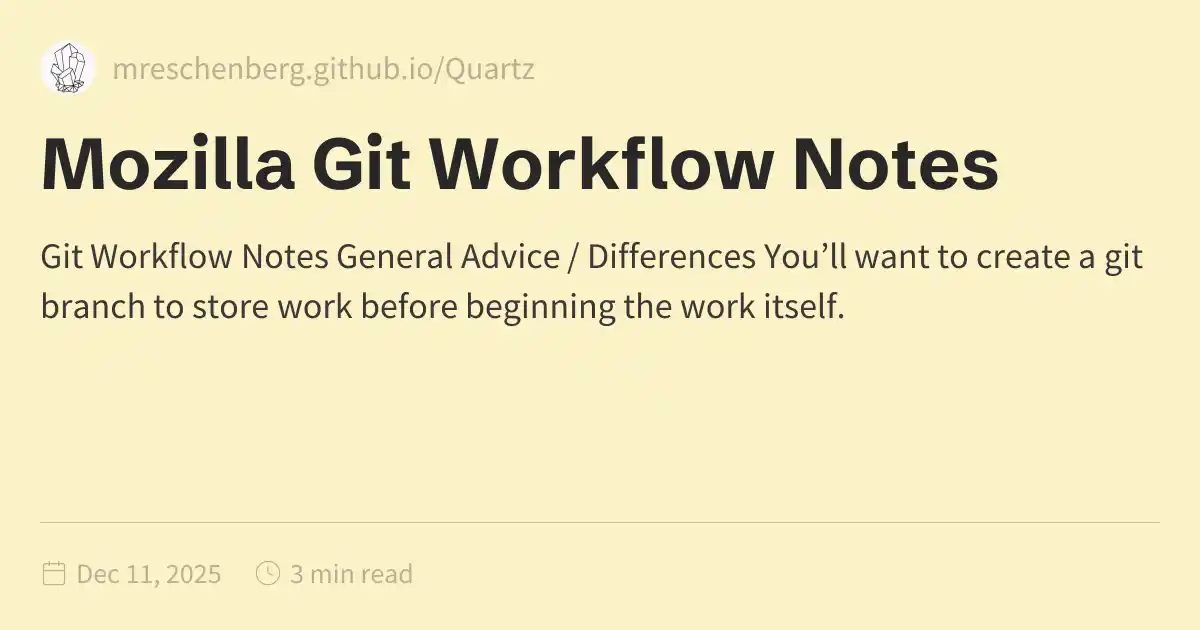
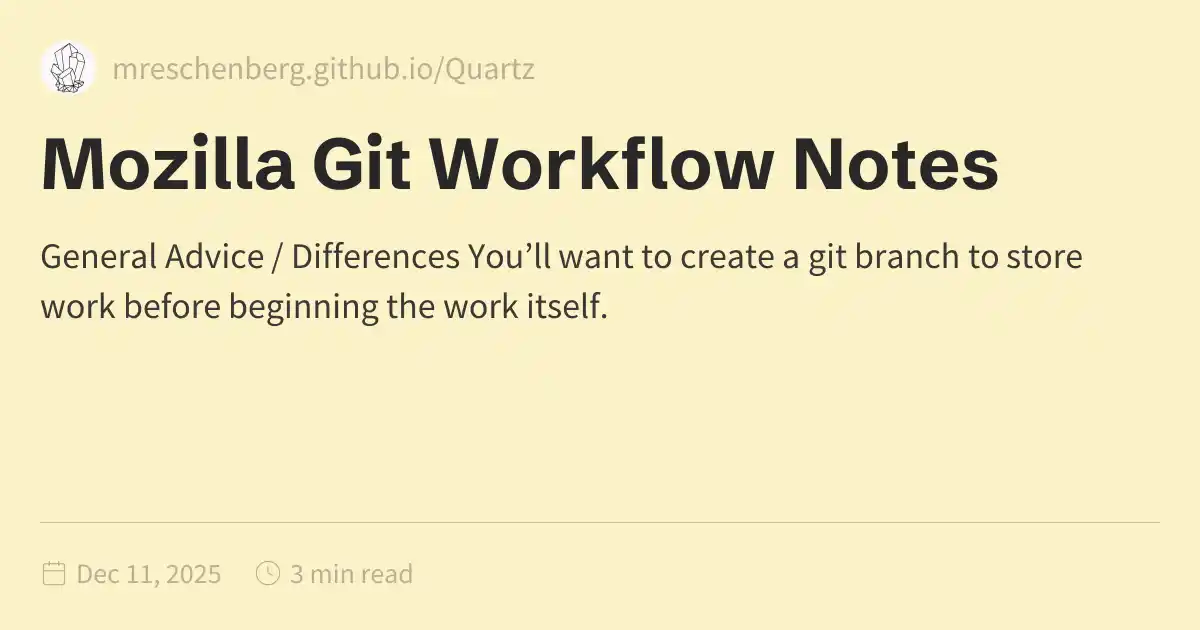
Quartz sync: Dec 11, 2025, 5:02 PM

Changed region(s): [[0.0308, 0.3619, 0.9558, 0.5127]]

diff --git a/docs/Work/Documentation/Mozilla-Git-Workflow-Notes.html b/docs/Work/Documentation/Mozilla-Git-Workflow-Notes.html
@@ -1,5 +1,5 @@
 <!DOCTYPE html>
-<html lang="en" dir="ltr"><head><title>Mozilla Git Workflow Notes</title><meta charset="utf-8"/><link rel="preconnect" href="https://fonts.googleapis.com"/><link rel="preconnect" href="https://fonts.gstatic.com"/><link rel="stylesheet" href="https://fonts.googleapis.com/css2?family=Schibsted Grotesk:wght@400;700&amp;family=Source Sans Pro:ital,wght@0,400;0,600;1,400;1,600&amp;family=IBM Plex Mono:wght@400;600&amp;display=swap"/><link rel="preconnect" href="https://cdnjs.cloudflare.com" crossorigin="anonymous"/><meta name="viewport" content="width=device-width, initial-scale=1.0"/><meta name="og:site_name" content="Morgan's Digital Garden 🪴"/><meta property="og:title" content="Mozilla Git Workflow Notes"/><meta property="og:type" content="website"/><meta name="twitter:card" content="summary_large_image"/><meta name="twitter:title" content="Mozilla Git Workflow Notes"/><meta name="twitter:description" content="Git Workflow Notes General Advice / Differences You’ll want to create a git branch to store work before beginning the work itself."/><meta property="og:description" content="Git Workflow Notes General Advice / Differences You’ll want to create a git branch to store work before beginning the work itself."/><meta property="og:image:alt" content="Git Workflow Notes General Advice / Differences You’ll want to create a git branch to store work before beginning the work itself."/><meta property="twitter:domain" content="mreschenberg.github.io/Quartz"/><meta property="og:url" content="https://mreschenberg.github.io/Quartz/Work/Documentation/Mozilla-Git-Workflow-Notes"/><meta property="twitter:url" content="https://mreschenberg.github.io/Quartz/Work/Documentation/Mozilla-Git-Workflow-Notes"/><link rel="icon" href="../../static/icon.png"/><meta name="description" content="Git Workflow Notes General Advice / Differences You’ll want to create a git branch to store work before beginning the work itself."/><meta name="generator" content="Quartz"/><link href="../../index.css" rel="stylesheet" type="text/css" data-persist="true"/><style>.expand-button {
+<html lang="en" dir="ltr"><head><title>Mozilla Git Workflow Notes</title><meta charset="utf-8"/><link rel="preconnect" href="https://fonts.googleapis.com"/><link rel="preconnect" href="https://fonts.gstatic.com"/><link rel="stylesheet" href="https://fonts.googleapis.com/css2?family=Schibsted Grotesk:wght@400;700&amp;family=Source Sans Pro:ital,wght@0,400;0,600;1,400;1,600&amp;family=IBM Plex Mono:wght@400;600&amp;display=swap"/><link rel="preconnect" href="https://cdnjs.cloudflare.com" crossorigin="anonymous"/><meta name="viewport" content="width=device-width, initial-scale=1.0"/><meta name="og:site_name" content="Morgan's Digital Garden 🪴"/><meta property="og:title" content="Mozilla Git Workflow Notes"/><meta property="og:type" content="website"/><meta name="twitter:card" content="summary_large_image"/><meta name="twitter:title" content="Mozilla Git Workflow Notes"/><meta name="twitter:description" content="General Advice / Differences You’ll want to create a git branch to store work before beginning the work itself."/><meta property="og:description" content="General Advice / Differences You’ll want to create a git branch to store work before beginning the work itself."/><meta property="og:image:alt" content="General Advice / Differences You’ll want to create a git branch to store work before beginning the work itself."/><meta property="twitter:domain" content="mreschenberg.github.io/Quartz"/><meta property="og:url" content="https://mreschenberg.github.io/Quartz/Work/Documentation/Mozilla-Git-Workflow-Notes"/><meta property="twitter:url" content="https://mreschenberg.github.io/Quartz/Work/Documentation/Mozilla-Git-Workflow-Notes"/><link rel="icon" href="../../static/icon.png"/><meta name="description" content="General Advice / Differences You’ll want to create a git branch to store work before beginning the work itself."/><meta name="generator" content="Quartz"/><link href="../../index.css" rel="stylesheet" type="text/css" data-persist="true"/><style>.expand-button {
   position: absolute;
   display: flex;
   float: right;
@@ -115,8 +115,7 @@ pre:hover > .expand-button {
   padding: 0 12px;
   font-size: 14px;
 }
[1 lines of base64/hex data omitted]
-<h2 id="general-advice--differences">General Advice / Differences<a role="anchor" aria-hidden="true" tabindex="-1" data-no-popover="true" href="#general-advice--differences" class="internal"><svg width="18" height="18" viewBox="0 0 24 24" fill="none" stroke="currentColor" stroke-width="2" stroke-linecap="round" stroke-linejoin="round"><path d="M10 13a5 5 0 0 0 7.54.54l3-3a5 5 0 0 0-7.07-7.07l-1.72 1.71"></path><path d="M14 11a5 5 0 0 0-7.54-.54l-3 3a5 5 0 0 0 7.07 7.07l1.71-1.71"></path></svg></a></h2>
[1 lines of base64/hex data omitted]
 <ul>
 <li>You’ll want to create a git branch to store work before beginning the work itself. This can be done with <code>git checkout -b YOUR_BRANCH_NAME</code>. You can view branches with <code>git branch -v</code> and switch between them with <code>git checkout BRANCH_NAME</code>. Git’s <code>main</code> branch points to the tip of mozilla-central from the last time you pulled.</li>
 <li>Git requires you stage commands to tracked files before they are included in your current commit. Mercurial only requires this for additions and deletions.
@@ -219,6 +218,6 @@ exit 0
                 C46.042,11.405,47.451,12,49,12c3.309,0,6-2.691,6-6S52.309,0,49,0z M11,9c0-1.103,0.897-2,2-2s2,0.897,2,2s-0.897,2-2,2
                 S11,10.103,11,9z M6,51c-2.206,0-4-1.794-4-4s1.794-4,4-4s4,1.794,4,4S8.206,51,6,51z M33,49c0,2.206-1.794,4-4,4s-4-1.794-4-4
                 s1.794-4,4-4S33,46.794,33,49z M29,31c-3.309,0-6-2.691-6-6s2.691-6,6-6s6,2.691,6,6S32.309,31,29,31z M47,41c0,1.103-0.897,2-2,2
-                s-2-0.897-2-2s0.897-2,2-2S47,39.897,47,41z M49,10c-2.206,0-4-1.794-4-4s1.794-4,4-4s4,1.794,4,4S51.206,10,49,10z"></path></svg></button></div><div class="global-graph-outer"><div class="global-graph-container" data-cfg="{&quot;drag&quot;:true,&quot;zoom&quot;:true,&quot;depth&quot;:-1,&quot;scale&quot;:0.9,&quot;repelForce&quot;:0.5,&quot;centerForce&quot;:0.2,&quot;linkDistance&quot;:30,&quot;fontSize&quot;:0.6,&quot;opacityScale&quot;:1,&quot;showTags&quot;:true,&quot;removeTags&quot;:[],&quot;focusOnHover&quot;:true,&quot;enableRadial&quot;:true}"></div></div></div><div class="toc desktop-only"><button type="button" class="toc-header" aria-controls="toc-6" aria-expanded="true"><h3>Table of Contents</h3><svg xmlns="http://www.w3.org/2000/svg" width="24" height="24" viewBox="0 0 24 24" fill="none" stroke="currentColor" stroke-width="2" stroke-linecap="round" stroke-linejoin="round" class="fold"><polyline points="6 9 12 15 18 9"></polyline></svg></button><ul id="list-1" class="toc-content overflow"><li class="depth-0"><a href="#git-workflow-notes" data-for="git-workflow-notes">Git Workflow Notes</a></li><li class="depth-1"><a href="#general-advice--differences" data-for="general-advice--differences">General Advice / Differences</a></li><li class="depth-1"><a href="#command-conversions" data-for="command-conversions">Command Conversions</a></li><li class="depth-1"><a href="#commit-hooks" data-for="commit-hooks">Commit Hooks</a></li><li class="depth-2"><a href="#lint-files-before-committing" data-for="lint-files-before-committing">Lint files before committing</a></li><li class="overflow-end"></li></ul></div><div class="backlinks"><h3>Backlinks</h3><ul id="list-2" class="overflow"><li><a href="../../Infrastructure/Morgan's-Obsidian-Guide" class="internal">Morgan's Obsidian Guide</a></li><li class="overflow-end"></li></ul></div></div><footer class><p>Created with <a href="https://quartz.jzhao.xyz/">Quartz v4.5.2</a> © 2025</p><ul><li><a href="https://github.com/jackyzha0/quartz">GitHub</a></li><li><a href="https://discord.gg/cRFFHYye7t">Discord Community</a></li></ul></footer></div></div></body><script type="application/javascript" data-persist="true">function n(){let t=this.parentElement;t.classList.toggle("is-collapsed");let e=t.getElementsByClassName("callout-content")[0];if(!e)return;let l=t.classList.contains("is-collapsed");e.style.gridTemplateRows=l?"0fr":"1fr"}function c(){let t=document.getElementsByClassName("callout is-collapsible");for(let e of t){let l=e.getElementsByClassName("callout-title")[0],s=e.getElementsByClassName("callout-content")[0];if(!l||!s)continue;l.addEventListener("click",n),window.addCleanup(()=>l.removeEventListener("click",n));let o=e.classList.contains("is-collapsed");s.style.gridTemplateRows=o?"0fr":"1fr"}}document.addEventListener("nav",c);
+                s-2-0.897-2-2s0.897-2,2-2S47,39.897,47,41z M49,10c-2.206,0-4-1.794-4-4s1.794-4,4-4s4,1.794,4,4S51.206,10,49,10z"></path></svg></button></div><div class="global-graph-outer"><div class="global-graph-container" data-cfg="{&quot;drag&quot;:true,&quot;zoom&quot;:true,&quot;depth&quot;:-1,&quot;scale&quot;:0.9,&quot;repelForce&quot;:0.5,&quot;centerForce&quot;:0.2,&quot;linkDistance&quot;:30,&quot;fontSize&quot;:0.6,&quot;opacityScale&quot;:1,&quot;showTags&quot;:true,&quot;removeTags&quot;:[],&quot;focusOnHover&quot;:true,&quot;enableRadial&quot;:true}"></div></div></div><div class="toc desktop-only"><button type="button" class="toc-header" aria-controls="toc-6" aria-expanded="true"><h3>Table of Contents</h3><svg xmlns="http://www.w3.org/2000/svg" width="24" height="24" viewBox="0 0 24 24" fill="none" stroke="currentColor" stroke-width="2" stroke-linecap="round" stroke-linejoin="round" class="fold"><polyline points="6 9 12 15 18 9"></polyline></svg></button><ul id="list-1" class="toc-content overflow"><li class="depth-0"><a href="#general-advice--differences" data-for="general-advice--differences">General Advice / Differences</a></li><li class="depth-0"><a href="#command-conversions" data-for="command-conversions">Command Conversions</a></li><li class="depth-0"><a href="#commit-hooks" data-for="commit-hooks">Commit Hooks</a></li><li class="depth-1"><a href="#lint-files-before-committing" data-for="lint-files-before-committing">Lint files before committing</a></li><li class="overflow-end"></li></ul></div><div class="backlinks"><h3>Backlinks</h3><ul id="list-2" class="overflow"><li><a href="../../Infrastructure/Morgan's-Obsidian-Guide" class="internal">Morgan's Obsidian Guide</a></li><li class="overflow-end"></li></ul></div></div><footer class><p>Created with <a href="https://quartz.jzhao.xyz/">Quartz v4.5.2</a> © 2025</p><ul><li><a href="https://github.com/jackyzha0/quartz">GitHub</a></li><li><a href="https://discord.gg/cRFFHYye7t">Discord Community</a></li></ul></footer></div></div></body><script type="application/javascript" data-persist="true">function n(){let t=this.parentElement;t.classList.toggle("is-collapsed");let e=t.getElementsByClassName("callout-content")[0];if(!e)return;let l=t.classList.contains("is-collapsed");e.style.gridTemplateRows=l?"0fr":"1fr"}function c(){let t=document.getElementsByClassName("callout is-collapsible");for(let e of t){let l=e.getElementsByClassName("callout-title")[0],s=e.getElementsByClassName("callout-content")[0];if(!l||!s)continue;l.addEventListener("click",n),window.addCleanup(()=>l.removeEventListener("click",n));let o=e.classList.contains("is-collapsed");s.style.gridTemplateRows=o?"0fr":"1fr"}}document.addEventListener("nav",c);
 </script><script type="module" data-persist="true">function E(a,e){if(!a)return;function t(o){o.target===this&&(o.preventDefault(),o.stopPropagation(),e())}function n(o){o.key.startsWith("Esc")&&(o.preventDefault(),e())}a?.addEventListener("click",t),window.addCleanup(()=>a?.removeEventListener("click",t)),document.addEventListener("keydown",n),window.addCleanup(()=>document.removeEventListener("keydown",n))}function f(a){for(;a.firstChild;)a.removeChild(a.firstChild)}var m=class{constructor(e,t){this.container=e;this.content=t;this.setupEventListeners(),this.setupNavigationControls(),this.resetTransform()}isDragging=!1;startPan={x:0,y:0};currentPan={x:0,y:0};scale=1;MIN_SCALE=.5;MAX_SCALE=3;cleanups=[];setupEventListeners(){let e=this.onMouseDown.bind(this),t=this.onMouseMove.bind(this),n=this.onMouseUp.bind(this),o=this.onTouchStart.bind(this),r=this.onTouchMove.bind(this),i=this.onTouchEnd.bind(this),s=this.resetTransform.bind(this);this.container.addEventListener("mousedown",e),document.addEventListener("mousemove",t),document.addEventListener("mouseup",n),this.container.addEventListener("touchstart",o,{passive:!1}),document.addEventListener("touchmove",r,{passive:!1}),document.addEventListener("touchend",i),window.addEventListener("resize",s),this.cleanups.push(()=>this.container.removeEventListener("mousedown",e),()=>document.removeEventListener("mousemove",t),()=>document.removeEventListener("mouseup",n),()=>this.container.removeEventListener("touchstart",o),()=>document.removeEventListener("touchmove",r),()=>document.removeEventListener("touchend",i),()=>window.removeEventListener("resize",s))}cleanup(){for(let e of this.cleanups)e()}setupNavigationControls(){let e=document.createElement("div");e.className="mermaid-controls";let t=this.createButton("+",()=>this.zoom(.1)),n=this.createButton("-",()=>this.zoom(-.1)),o=this.createButton("Reset",()=>this.resetTransform());e.appendChild(n),e.appendChild(o),e.appendChild(t),this.container.appendChild(e)}createButton(e,t){let n=document.createElement("button");return n.textContent=e,n.className="mermaid-control-button",n.addEventListener("click",t),window.addCleanup(()=>n.removeEventListener("click",t)),n}onMouseDown(e){e.button===0&&(this.isDragging=!0,this.startPan={x:e.clientX-this.currentPan.x,y:e.clientY-this.currentPan.y},this.container.style.cursor="grabbing")}onMouseMove(e){this.isDragging&&(e.preventDefault(),this.currentPan={x:e.clientX-this.startPan.x,y:e.clientY-this.startPan.y},this.updateTransform())}onMouseUp(){this.isDragging=!1,this.container.style.cursor="grab"}onTouchStart(e){if(e.touches.length!==1)return;this.isDragging=!0;let t=e.touches[0];this.startPan={x:t.clientX-this.currentPan.x,y:t.clientY-this.currentPan.y}}onTouchMove(e){if(!this.isDragging||e.touches.length!==1)return;e.preventDefault();let t=e.touches[0];this.currentPan={x:t.clientX-this.startPan.x,y:t.clientY-this.startPan.y},this.updateTransform()}onTouchEnd(){this.isDragging=!1}zoom(e){let t=Math.min(Math.max(this.scale+e,this.MIN_SCALE),this.MAX_SCALE),n=this.content.getBoundingClientRect(),o=n.width/2,r=n.height/2,i=t-this.scale;this.currentPan.x-=o*i,this.currentPan.y-=r*i,this.scale=t,this.updateTransform()}updateTransform(){this.content.style.transform=`translate(${this.currentPan.x}px, ${this.currentPan.y}px) scale(${this.scale})`}resetTransform(){let t=this.content.querySelector("svg").getBoundingClientRect(),n=t.width/this.scale,o=t.height/this.scale;this.scale=1,this.currentPan={x:(this.container.clientWidth-n)/2,y:(this.container.clientHeight-o)/2},this.updateTransform()}},T=["--secondary","--tertiary","--gray","--light","--lightgray","--highlight","--dark","--darkgray","--codeFont"],y;document.addEventListener("nav",async()=>{let e=document.querySelector(".center").querySelectorAll("code.mermaid");if(e.length===0)return;y||=await import("https://cdnjs.cloudflare.com/ajax/libs/mermaid/11.4.0/mermaid.esm.min.mjs");let t=y.default,n=new WeakMap;for(let r of e)n.set(r,r.innerText);async function o(){for(let s of e){s.removeAttribute("data-processed");let c=n.get(s);c&&(s.innerHTML=c)}let r=T.reduce((s,c)=>(s[c]=window.getComputedStyle(document.documentElement).getPropertyValue(c),s),{}),i=document.documentElement.getAttribute("saved-theme")==="dark";t.initialize({startOnLoad:!1,securityLevel:"loose",theme:i?"dark":"base",themeVariables:{fontFamily:r["--codeFont"],primaryColor:r["--light"],primaryTextColor:r["--darkgray"],primaryBorderColor:r["--tertiary"],lineColor:r["--darkgray"],secondaryColor:r["--secondary"],tertiaryColor:r["--tertiary"],clusterBkg:r["--light"],edgeLabelBackground:r["--highlight"]}}),await t.run({nodes:e})}await o(),document.addEventListener("themechange",o),window.addCleanup(()=>document.removeEventListener("themechange",o));for(let r=0;r<e.length;r++){let v=function(){let g=l.querySelector("#mermaid-space"),h=l.querySelector(".mermaid-content");if(!h)return;f(h);let w=i.querySelector("svg").cloneNode(!0);h.appendChild(w),l.classList.add("active"),g.style.cursor="grab",u=new m(g,h)},M=function(){l.classList.remove("active"),u?.cleanup(),u=null},i=e[r],s=i.parentElement,c=s.querySelector(".clipboard-button"),d=s.querySelector(".expand-button"),p=window.getComputedStyle(c),L=c.offsetWidth+parseFloat(p.marginLeft||"0")+parseFloat(p.marginRight||"0");d.style.right=`calc(${L}px + 0.3rem)`,s.prepend(d);let l=s.querySelector("#mermaid-container");if(!l)return;let u=null;d.addEventListener("click",v),E(l,M),window.addCleanup(()=>{u?.cleanup(),d.removeEventListener("click",v)})}});
 </script><script src="https://cdn.jsdelivr.net/npm/katex@0.16.11/dist/contrib/copy-tex.min.js" type="application/javascript" data-persist="true"></script><script src="../../postscript.js" type="module" data-persist="true"></script></html>

diff --git a/docs/Work/Documentation/index.html b/docs/Work/Documentation/index.html
@@ -115,6 +115,6 @@ pre:hover > .expand-button {
   padding: 0 12px;
   font-size: 14px;
 }
[2 lines of base64/hex data omitted]
 </script><script type="module" data-persist="true">function E(a,e){if(!a)return;function t(o){o.target===this&&(o.preventDefault(),o.stopPropagation(),e())}function n(o){o.key.startsWith("Esc")&&(o.preventDefault(),e())}a?.addEventListener("click",t),window.addCleanup(()=>a?.removeEventListener("click",t)),document.addEventListener("keydown",n),window.addCleanup(()=>document.removeEventListener("keydown",n))}function f(a){for(;a.firstChild;)a.removeChild(a.firstChild)}var m=class{constructor(e,t){this.container=e;this.content=t;this.setupEventListeners(),this.setupNavigationControls(),this.resetTransform()}isDragging=!1;startPan={x:0,y:0};currentPan={x:0,y:0};scale=1;MIN_SCALE=.5;MAX_SCALE=3;cleanups=[];setupEventListeners(){let e=this.onMouseDown.bind(this),t=this.onMouseMove.bind(this),n=this.onMouseUp.bind(this),o=this.onTouchStart.bind(this),r=this.onTouchMove.bind(this),i=this.onTouchEnd.bind(this),s=this.resetTransform.bind(this);this.container.addEventListener("mousedown",e),document.addEventListener("mousemove",t),document.addEventListener("mouseup",n),this.container.addEventListener("touchstart",o,{passive:!1}),document.addEventListener("touchmove",r,{passive:!1}),document.addEventListener("touchend",i),window.addEventListener("resize",s),this.cleanups.push(()=>this.container.removeEventListener("mousedown",e),()=>document.removeEventListener("mousemove",t),()=>document.removeEventListener("mouseup",n),()=>this.container.removeEventListener("touchstart",o),()=>document.removeEventListener("touchmove",r),()=>document.removeEventListener("touchend",i),()=>window.removeEventListener("resize",s))}cleanup(){for(let e of this.cleanups)e()}setupNavigationControls(){let e=document.createElement("div");e.className="mermaid-controls";let t=this.createButton("+",()=>this.zoom(.1)),n=this.createButton("-",()=>this.zoom(-.1)),o=this.createButton("Reset",()=>this.resetTransform());e.appendChild(n),e.appendChild(o),e.appendChild(t),this.container.appendChild(e)}createButton(e,t){let n=document.createElement("button");return n.textContent=e,n.className="mermaid-control-button",n.addEventListener("click",t),window.addCleanup(()=>n.removeEventListener("click",t)),n}onMouseDown(e){e.button===0&&(this.isDragging=!0,this.startPan={x:e.clientX-this.currentPan.x,y:e.clientY-this.currentPan.y},this.container.style.cursor="grabbing")}onMouseMove(e){this.isDragging&&(e.preventDefault(),this.currentPan={x:e.clientX-this.startPan.x,y:e.clientY-this.startPan.y},this.updateTransform())}onMouseUp(){this.isDragging=!1,this.container.style.cursor="grab"}onTouchStart(e){if(e.touches.length!==1)return;this.isDragging=!0;let t=e.touches[0];this.startPan={x:t.clientX-this.currentPan.x,y:t.clientY-this.currentPan.y}}onTouchMove(e){if(!this.isDragging||e.touches.length!==1)return;e.preventDefault();let t=e.touches[0];this.currentPan={x:t.clientX-this.startPan.x,y:t.clientY-this.startPan.y},this.updateTransform()}onTouchEnd(){this.isDragging=!1}zoom(e){let t=Math.min(Math.max(this.scale+e,this.MIN_SCALE),this.MAX_SCALE),n=this.content.getBoundingClientRect(),o=n.width/2,r=n.height/2,i=t-this.scale;this.currentPan.x-=o*i,this.currentPan.y-=r*i,this.scale=t,this.updateTransform()}updateTransform(){this.content.style.transform=`translate(${this.currentPan.x}px, ${this.currentPan.y}px) scale(${this.scale})`}resetTransform(){let t=this.content.querySelector("svg").getBoundingClientRect(),n=t.width/this.scale,o=t.height/this.scale;this.scale=1,this.currentPan={x:(this.container.clientWidth-n)/2,y:(this.container.clientHeight-o)/2},this.updateTransform()}},T=["--secondary","--tertiary","--gray","--light","--lightgray","--highlight","--dark","--darkgray","--codeFont"],y;document.addEventListener("nav",async()=>{let e=document.querySelector(".center").querySelectorAll("code.mermaid");if(e.length===0)return;y||=await import("https://cdnjs.cloudflare.com/ajax/libs/mermaid/11.4.0/mermaid.esm.min.mjs");let t=y.default,n=new WeakMap;for(let r of e)n.set(r,r.innerText);async function o(){for(let s of e){s.removeAttribute("data-processed");let c=n.get(s);c&&(s.innerHTML=c)}let r=T.reduce((s,c)=>(s[c]=window.getComputedStyle(document.documentElement).getPropertyValue(c),s),{}),i=document.documentElement.getAttribute("saved-theme")==="dark";t.initialize({startOnLoad:!1,securityLevel:"loose",theme:i?"dark":"base",themeVariables:{fontFamily:r["--codeFont"],primaryColor:r["--light"],primaryTextColor:r["--darkgray"],primaryBorderColor:r["--tertiary"],lineColor:r["--darkgray"],secondaryColor:r["--secondary"],tertiaryColor:r["--tertiary"],clusterBkg:r["--light"],edgeLabelBackground:r["--highlight"]}}),await t.run({nodes:e})}await o(),document.addEventListener("themechange",o),window.addCleanup(()=>document.removeEventListener("themechange",o));for(let r=0;r<e.length;r++){let v=function(){let g=l.querySelector("#mermaid-space"),h=l.querySelector(".mermaid-content");if(!h)return;f(h);let w=i.querySelector("svg").cloneNode(!0);h.appendChild(w),l.classList.add("active"),g.style.cursor="grab",u=new m(g,h)},M=function(){l.classList.remove("active"),u?.cleanup(),u=null},i=e[r],s=i.parentElement,c=s.querySelector(".clipboard-button"),d=s.querySelector(".expand-button"),p=window.getComputedStyle(c),L=c.offsetWidth+parseFloat(p.marginLeft||"0")+parseFloat(p.marginRight||"0");d.style.right=`calc(${L}px + 0.3rem)`,s.prepend(d);let l=s.querySelector("#mermaid-container");if(!l)return;let u=null;d.addEventListener("click",v),E(l,M),window.addCleanup(()=>{u?.cleanup(),d.removeEventListener("click",v)})}});
 </script><script src="https://cdn.jsdelivr.net/npm/katex@0.16.11/dist/contrib/copy-tex.min.js" type="application/javascript" data-persist="true"></script><script src="../../postscript.js" type="module" data-persist="true"></script></html>

diff --git a/docs/Work/index.html b/docs/Work/index.html
@@ -115,6 +115,6 @@ pre:hover > .expand-button {
   padding: 0 12px;
   font-size: 14px;
 }
[2 lines of base64/hex data omitted]
 </script><script type="module" data-persist="true">function E(a,e){if(!a)return;function t(o){o.target===this&&(o.preventDefault(),o.stopPropagation(),e())}function n(o){o.key.startsWith("Esc")&&(o.preventDefault(),e())}a?.addEventListener("click",t),window.addCleanup(()=>a?.removeEventListener("click",t)),document.addEventListener("keydown",n),window.addCleanup(()=>document.removeEventListener("keydown",n))}function f(a){for(;a.firstChild;)a.removeChild(a.firstChild)}var m=class{constructor(e,t){this.container=e;this.content=t;this.setupEventListeners(),this.setupNavigationControls(),this.resetTransform()}isDragging=!1;startPan={x:0,y:0};currentPan={x:0,y:0};scale=1;MIN_SCALE=.5;MAX_SCALE=3;cleanups=[];setupEventListeners(){let e=this.onMouseDown.bind(this),t=this.onMouseMove.bind(this),n=this.onMouseUp.bind(this),o=this.onTouchStart.bind(this),r=this.onTouchMove.bind(this),i=this.onTouchEnd.bind(this),s=this.resetTransform.bind(this);this.container.addEventListener("mousedown",e),document.addEventListener("mousemove",t),document.addEventListener("mouseup",n),this.container.addEventListener("touchstart",o,{passive:!1}),document.addEventListener("touchmove",r,{passive:!1}),document.addEventListener("touchend",i),window.addEventListener("resize",s),this.cleanups.push(()=>this.container.removeEventListener("mousedown",e),()=>document.removeEventListener("mousemove",t),()=>document.removeEventListener("mouseup",n),()=>this.container.removeEventListener("touchstart",o),()=>document.removeEventListener("touchmove",r),()=>document.removeEventListener("touchend",i),()=>window.removeEventListener("resize",s))}cleanup(){for(let e of this.cleanups)e()}setupNavigationControls(){let e=document.createElement("div");e.className="mermaid-controls";let t=this.createButton("+",()=>this.zoom(.1)),n=this.createButton("-",()=>this.zoom(-.1)),o=this.createButton("Reset",()=>this.resetTransform());e.appendChild(n),e.appendChild(o),e.appendChild(t),this.container.appendChild(e)}createButton(e,t){let n=document.createElement("button");return n.textContent=e,n.className="mermaid-control-button",n.addEventListener("click",t),window.addCleanup(()=>n.removeEventListener("click",t)),n}onMouseDown(e){e.button===0&&(this.isDragging=!0,this.startPan={x:e.clientX-this.currentPan.x,y:e.clientY-this.currentPan.y},this.container.style.cursor="grabbing")}onMouseMove(e){this.isDragging&&(e.preventDefault(),this.currentPan={x:e.clientX-this.startPan.x,y:e.clientY-this.startPan.y},this.updateTransform())}onMouseUp(){this.isDragging=!1,this.container.style.cursor="grab"}onTouchStart(e){if(e.touches.length!==1)return;this.isDragging=!0;let t=e.touches[0];this.startPan={x:t.clientX-this.currentPan.x,y:t.clientY-this.currentPan.y}}onTouchMove(e){if(!this.isDragging||e.touches.length!==1)return;e.preventDefault();let t=e.touches[0];this.currentPan={x:t.clientX-this.startPan.x,y:t.clientY-this.startPan.y},this.updateTransform()}onTouchEnd(){this.isDragging=!1}zoom(e){let t=Math.min(Math.max(this.scale+e,this.MIN_SCALE),this.MAX_SCALE),n=this.content.getBoundingClientRect(),o=n.width/2,r=n.height/2,i=t-this.scale;this.currentPan.x-=o*i,this.currentPan.y-=r*i,this.scale=t,this.updateTransform()}updateTransform(){this.content.style.transform=`translate(${this.currentPan.x}px, ${this.currentPan.y}px) scale(${this.scale})`}resetTransform(){let t=this.content.querySelector("svg").getBoundingClientRect(),n=t.width/this.scale,o=t.height/this.scale;this.scale=1,this.currentPan={x:(this.container.clientWidth-n)/2,y:(this.container.clientHeight-o)/2},this.updateTransform()}},T=["--secondary","--tertiary","--gray","--light","--lightgray","--highlight","--dark","--darkgray","--codeFont"],y;document.addEventListener("nav",async()=>{let e=document.querySelector(".center").querySelectorAll("code.mermaid");if(e.length===0)return;y||=await import("https://cdnjs.cloudflare.com/ajax/libs/mermaid/11.4.0/mermaid.esm.min.mjs");let t=y.default,n=new WeakMap;for(let r of e)n.set(r,r.innerText);async function o(){for(let s of e){s.removeAttribute("data-processed");let c=n.get(s);c&&(s.innerHTML=c)}let r=T.reduce((s,c)=>(s[c]=window.getComputedStyle(document.documentElement).getPropertyValue(c),s),{}),i=document.documentElement.getAttribute("saved-theme")==="dark";t.initialize({startOnLoad:!1,securityLevel:"loose",theme:i?"dark":"base",themeVariables:{fontFamily:r["--codeFont"],primaryColor:r["--light"],primaryTextColor:r["--darkgray"],primaryBorderColor:r["--tertiary"],lineColor:r["--darkgray"],secondaryColor:r["--secondary"],tertiaryColor:r["--tertiary"],clusterBkg:r["--light"],edgeLabelBackground:r["--highlight"]}}),await t.run({nodes:e})}await o(),document.addEventListener("themechange",o),window.addCleanup(()=>document.removeEventListener("themechange",o));for(let r=0;r<e.length;r++){let v=function(){let g=l.querySelector("#mermaid-space"),h=l.querySelector(".mermaid-content");if(!h)return;f(h);let w=i.querySelector("svg").cloneNode(!0);h.appendChild(w),l.classList.add("active"),g.style.cursor="grab",u=new m(g,h)},M=function(){l.classList.remove("active"),u?.cleanup(),u=null},i=e[r],s=i.parentElement,c=s.querySelector(".clipboard-button"),d=s.querySelector(".expand-button"),p=window.getComputedStyle(c),L=c.offsetWidth+parseFloat(p.marginLeft||"0")+parseFloat(p.marginRight||"0");d.style.right=`calc(${L}px + 0.3rem)`,s.prepend(d);let l=s.querySelector("#mermaid-container");if(!l)return;let u=null;d.addEventListener("click",v),E(l,M),window.addCleanup(()=>{u?.cleanup(),d.removeEventListener("click",v)})}});
 </script><script src="https://cdn.jsdelivr.net/npm/katex@0.16.11/dist/contrib/copy-tex.min.js" type="application/javascript" data-persist="true"></script><script src="../postscript.js" type="module" data-persist="true"></script></html>
